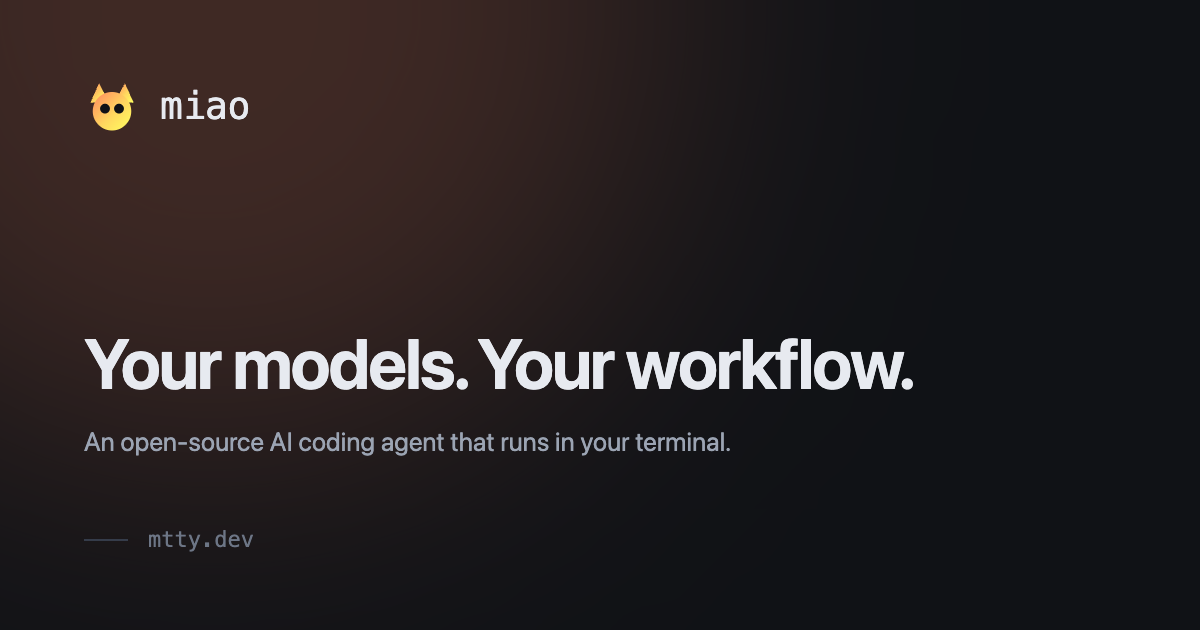
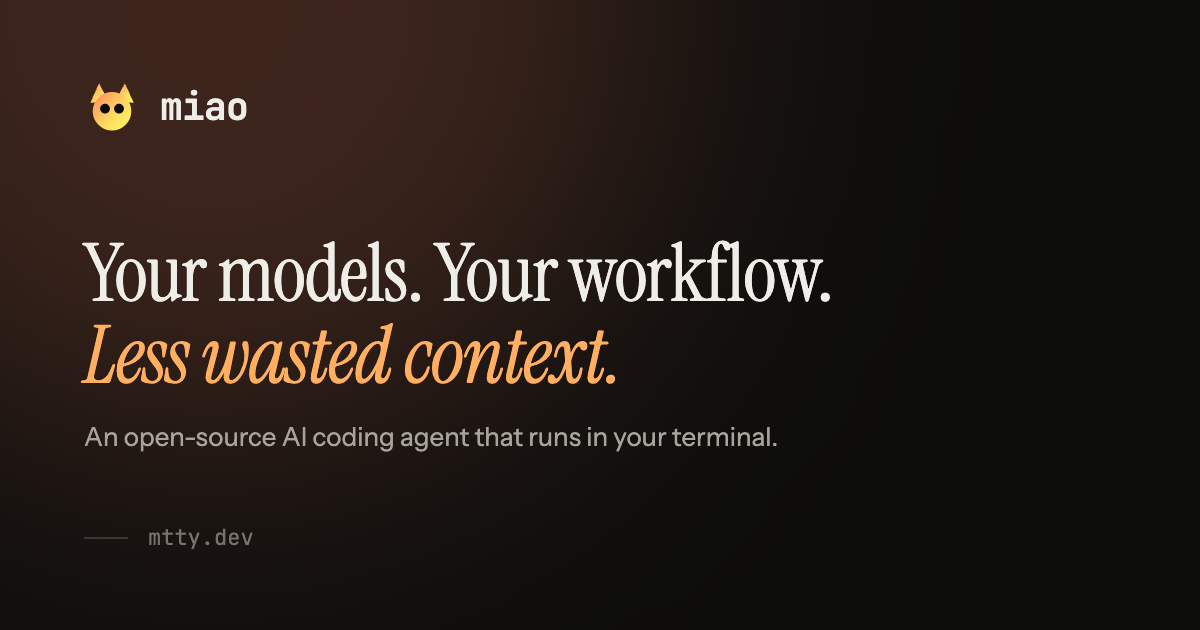
feat(site): re-render the social cards in the new type

diff --git a/scripts/og.ts b/scripts/og.ts
@@ -31,6 +31,10 @@ interface Card {
   /** Empty on the home cards, which carry the site cat instead. */
   name: string
   headline: string
+  /** Second line of the headline, set in italic in the product's colour. */
+  accent: string
+  /** Colour of the accent line. */
+  ink: string
   sub: string
 }
 
@@ -44,6 +48,33 @@ async function markFrom(path: string, size: number) {
 }
 
 const tokens = await Bun.file(join(ROOT, "src/styles/tokens.css")).text()
+
+// The pages load their faces through @fontsource; a card is rendered from a
+// string with no bundler, so the same files are inlined as data URLs.
+async function face(family: string, file: string, style = "normal", weight = "400") {
+  const bytes = await Bun.file(join(ROOT, "node_modules", file)).arrayBuffer()
+  const url = `data:font/woff2;base64,${Buffer.from(bytes).toString("base64")}`
+  return `@font-face { font-family: "${family}"; font-style: ${style}; font-weight: ${weight}; src: url(${url}) format("woff2"); }`
+}
+
+const faces = (
+  await Promise.all([
+    face("Instrument Serif", "@fontsource/instrument-serif/files/instrument-serif-latin-400-normal.woff2"),
+    face("Instrument Serif", "@fontsource/instrument-serif/files/instrument-serif-latin-400-italic.woff2", "italic"),
+    face(
+      "Instrument Sans Variable",
+      "@fontsource-variable/instrument-sans/files/instrument-sans-latin-wght-normal.woff2",
+      "normal",
+      "400 700",
+    ),
+    face(
+      "JetBrains Mono Variable",
+      "@fontsource-variable/jetbrains-mono/files/jetbrains-mono-latin-wght-normal.woff2",
+      "normal",
+      "100 800",
+    ),
+  ])
+).join("\n")
 const miaoMark = await markFrom("src/components/site/MiaoMark.astro", MARK)
 const mttyMark = await markFrom("src/components/site/MttyMark.astro", MARK)
 const siteMark = (await Bun.file(join(ROOT, "public/favicon.svg")).text()).replace(
@@ -55,20 +86,24 @@ const cards: Card[] = [
   {
     file: "home-en.png",
     lang: "en",
-    glow: "var(--miao-2)",
+    glow: "var(--miao-1)",
     mark: siteMark,
     name: "",
-    headline: "Two tools for the terminal.",
-    sub: "An agent that does the work, and the terminal built to run it.",
+    headline: "An agent that does the work.",
+    accent: "A terminal that keeps watch.",
+    ink: "var(--miao-2)",
+    sub: "miao, an open-source AI coding agent. mtty, a terminal written in Rust.",
   },
   {
     file: "home-zh.png",
     lang: "zh",
-    glow: "var(--miao-2)",
+    glow: "var(--miao-1)",
     mark: siteMark,
     name: "",
-    headline: "为终端而生的两个工具。",
-    sub: "一个替你干活的代理，一个为运行它而造的终端。",
+    headline: "一个替你干活的代理，",
+    accent: "一个替你盯着的终端。",
+    ink: "var(--miao-2)",
+    sub: "miao，开源 AI 编程代理。mtty，用 Rust 编写、GPU 渲染的终端。",
   },
   {
     file: "miao-en.png",
@@ -77,6 +112,8 @@ const cards: Card[] = [
     mark: miaoMark,
     name: "miao",
     headline: "Your models. Your workflow.",
+    accent: "Less wasted context.",
+    ink: "var(--miao-2)",
     sub: "An open-source AI coding agent that runs in your terminal.",
   },
   {
@@ -85,7 +122,9 @@ const cards: Card[] = [
     glow: "var(--miao-1)",
     mark: miaoMark,
     name: "miao",
-    headline: "你的模型。你的工作流。",
+    headline: "模型由你选，工作持续推进，",
+    accent: "少浪费上下文。",
+    ink: "var(--miao-2)",
     sub: "在终端里运行的开源 AI 编程代理。",
   },
   {
@@ -94,7 +133,9 @@ const cards: Card[] = [
     glow: "var(--mtty-accent)",
     mark: mttyMark,
     name: "mtty",
-    headline: "Fast, embeddable, in Rust.",
+    headline: "A fast, embeddable terminal,",
+    accent: "written in Rust.",
+    ink: "var(--mtty-accent)",
     sub: "A terminal emulator and engine, rendered on the GPU.",
   },
   {
@@ -103,7 +144,9 @@ const cards: Card[] = [
     glow: "var(--mtty-accent)",
     mark: mttyMark,
     name: "mtty",
-    headline: "快速、可嵌入、Rust 编写。",
+    headline: "快速、可嵌入的终端，",
+    accent: "用 Rust 编写。",
+    ink: "var(--mtty-accent)",
     sub: "GPU 渲染的终端模拟器与引擎。",
   },
 ]
@@ -115,6 +158,7 @@ function cardHtml(card: Card) {
   return `<!doctype html>
 <html lang="${card.lang}">
 <head><meta charset="utf-8"><style>
+${faces}
 ${tokens}
 
 * { box-sizing: border-box; margin: 0; }
@@ -157,17 +201,25 @@ body {
 .name {
   font-family: var(--font-mono);
   font-size: 38px;
-  letter-spacing: -0.01em;
+  font-weight: 600;
+  letter-spacing: -0.02em;
 }
 
 /* Eats the gap so the headline sits low and the foot stays pinned. */
 .spacer { flex: 1; }
 
 .headline {
-  font-size: 70px;
-  font-weight: 650;
-  line-height: 1.1;
-  letter-spacing: -0.025em;
+  font-family: var(--font-display);
+  font-size: ${card.lang === "zh" ? 66 : 80}px;
+  font-weight: 400;
+  line-height: ${card.lang === "zh" ? 1.2 : 1.02};
+  letter-spacing: ${card.lang === "zh" ? "0" : "-0.015em"};
+}
+
+.headline em {
+  display: block;
+  color: ${card.ink};
+  font-style: ${card.lang === "zh" ? "normal" : "italic"};
 }
 
 .sub {
@@ -199,7 +251,7 @@ body {
   <div class="card">
     <div class="top">${card.mark}${card.name ? `<span class="name">${card.name}</span>` : ""}</div>
     <div class="spacer"></div>
-    <h1 class="headline">${card.headline}</h1>
+    <h1 class="headline">${card.headline}<em>${card.accent}</em></h1>
     <p class="sub">${card.sub}</p>
     <div class="foot"><span class="rule"></span><span>mtty.dev</span></div>
   </div>
